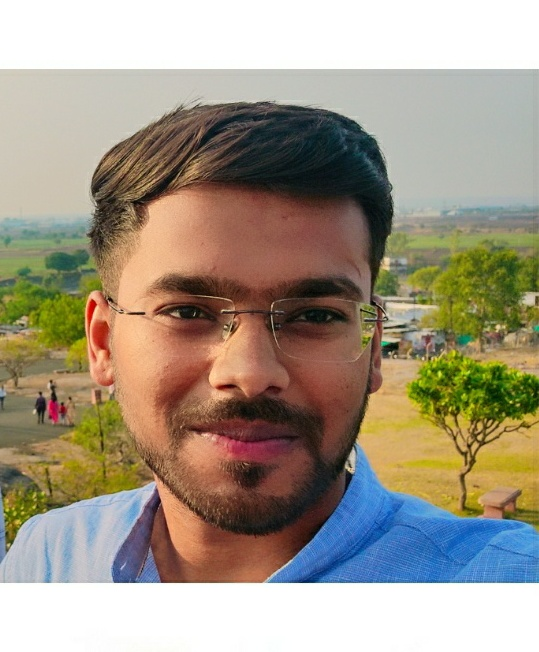
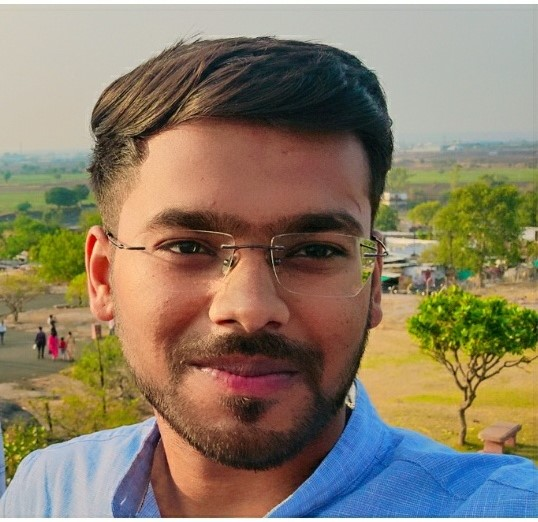
girhub link padding

diff --git a/src/Contants/WorkData.js b/src/Contants/WorkData.js
@@ -17,17 +17,17 @@ export const Projects ={
     "JavaScript":[
     {
         "Name": "Infinite Scroller",
-        "Disc":"Hi",
+        "Disc":"Infinite scrolling is a feature that allows you to load some pics on a website and then load more before the user reaches the end of the webpage",
         "Image":Image1
     },
     {
         "Name": "Youtube Search Api",
-        "Disc":"Hi",
+        "Disc":"Search API Returns a collection of search results that match the query parameters specified in the API reques",
         "Image":Image2
     },
     {
         "Name": "Quote Generator",
-        "Disc":"Hi",
+        "Disc":"The Random Quote Generator is used to generate random quotes From API",
         "Image":Image3
     }
 ],
@@ -35,19 +35,19 @@ export const Projects ={
     "ReactJs":[
         {
             "Name":"Ecommerce Website",
-            "Disc":"Ecommerce-Website-with-React-Redux with JSON server to Fetch Mock Data",
+            "Disc":"Ecommerce-Website-with-React-Redux with user JSON server to Fetch Mock Data",
             "Image":Ecom
         },
         {
-            "Name":"TODO List",
-            "Disc":"Hi",
+            "Name":"TODO App",
+            "Disc":"A simple todo application using React",
             "Image":Todo
         }
     ],
     "Angular":[
         {
             "Name":"User Management Webpage",
-            "Disc":"Hi",
+            "Disc":"User management System with Bootstrap",
             "Image":Usermng
         }
     ],

diff --git a/src/Components/Work.jsx b/src/Components/Work.jsx
@@ -54,17 +54,17 @@ function Work() {
                 </div>
                 <div className="card-body">
                   <span className="tag tag-teal">{Title}</span>
-                  <p>{i.Name}</p>
-                  <p>{i.Disc}</p>
-                  <a
-                    href="https://github.com/Sanidhya22"
-                    target="_blank"
-                    rel="noreferrer"
-                    className="link"
-                  >
-                    Github Link
-                  </a>
+                  <p className="projecttitle">{i.Name}</p>
+                  <p className="projectdisc">{i.Disc}</p>
                 </div>
+                <a
+                  href="https://github.com/Sanidhya22"
+                  target="_blank"
+                  rel="noreferrer"
+                  className="link"
+                >
+                  Github Link
+                </a>
               </div>
             );
           })}

diff --git a/src/Styles/Work.scss b/src/Styles/Work.scss
@@ -25,6 +25,7 @@
             width: 270px ;
             text-align: center;
             margin: 10px;
+            padding: 1rem 0;
             background-color: #fff;
             border-radius: 10px;
             box-shadow: 0 2px 20px rgba(0, 0, 0, 0.2);
@@ -60,10 +61,17 @@
             font-size: 15px;
            
         }
-        .link{
-            margin: 0.25rem auto;
-            padding:1px 20px;
+        .projecttitle{
+            font-weight: bold;
+            font-size: 1.2rem !important;
+        }
+        .projectdisc{
+           font-weight: lighter;
+           font-family:'Trebuchet MS', 'Lucida Sans Unicode', 'Lucida Grande', 'Lucida Sans', Arial, sans-serif;
             
+        }
+        .link{
+            padding:1px 20px;
             border-radius: 10px;
             color:#DCD7C9;
             background-color:#2C3639;

diff --git a/src/Styles/About.scss b/src/Styles/About.scss
@@ -26,8 +26,8 @@
         width: 20%;
         margin: 2rem auto;
         height: 250px;
-        object-fit: cover;
-        border-radius:50%;
+        object-fit:contain;
+        border-radius:10%;
         /* -moz-border-radius:50px;
         -webkit-border-radius:25px; */
        
